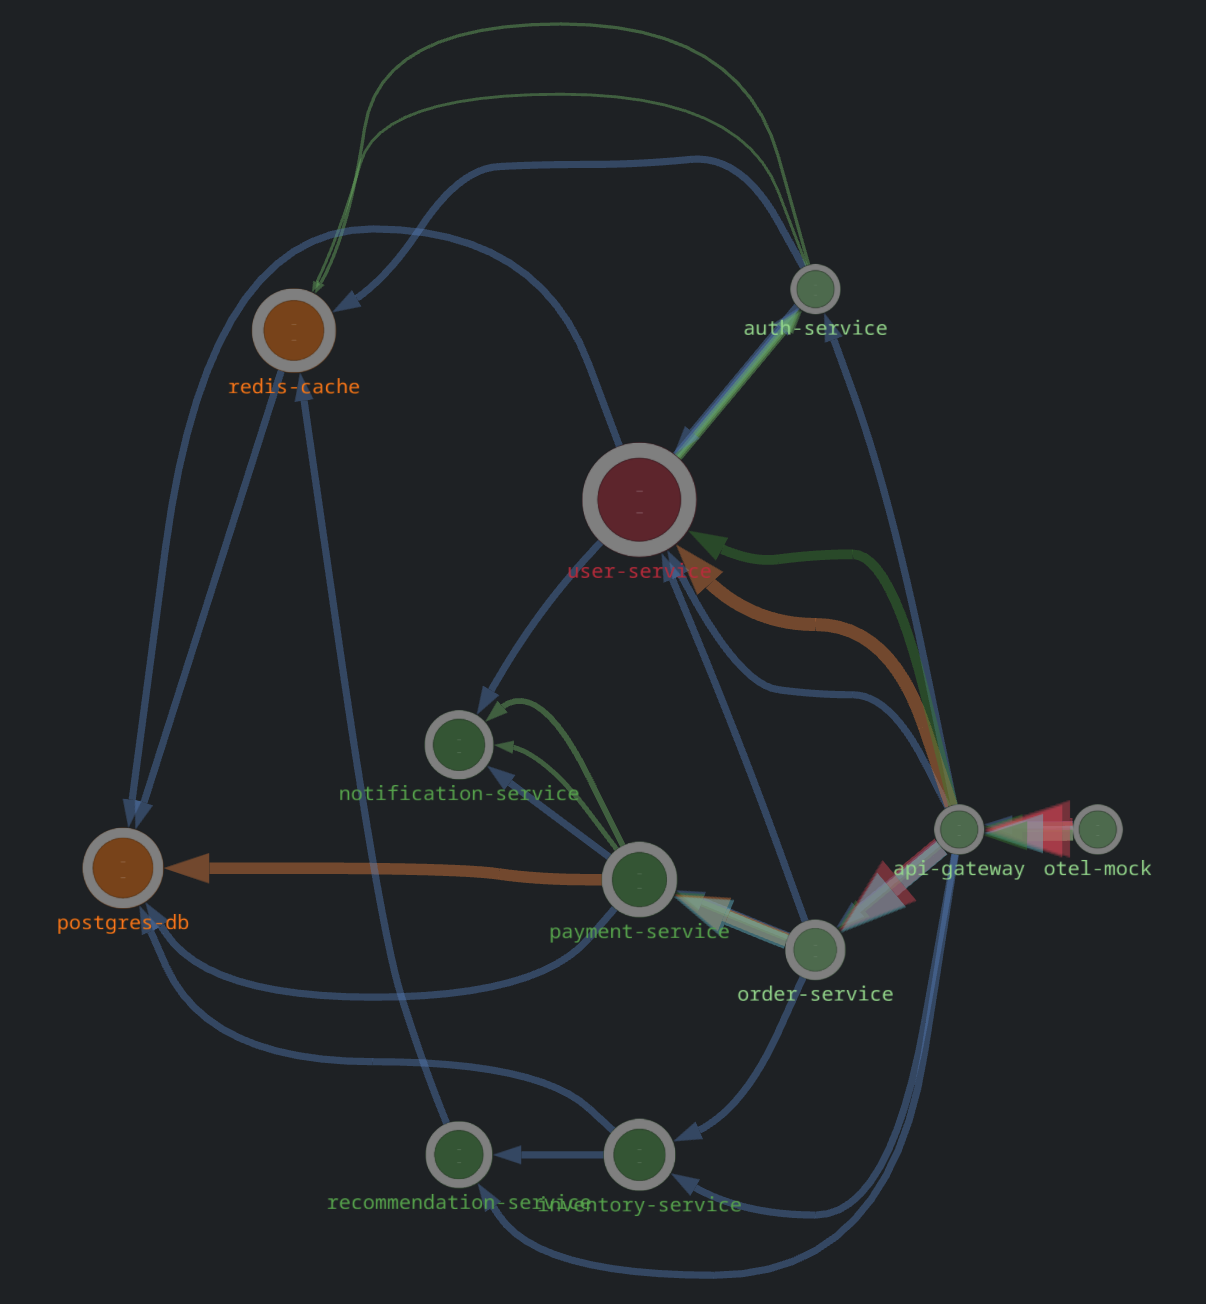
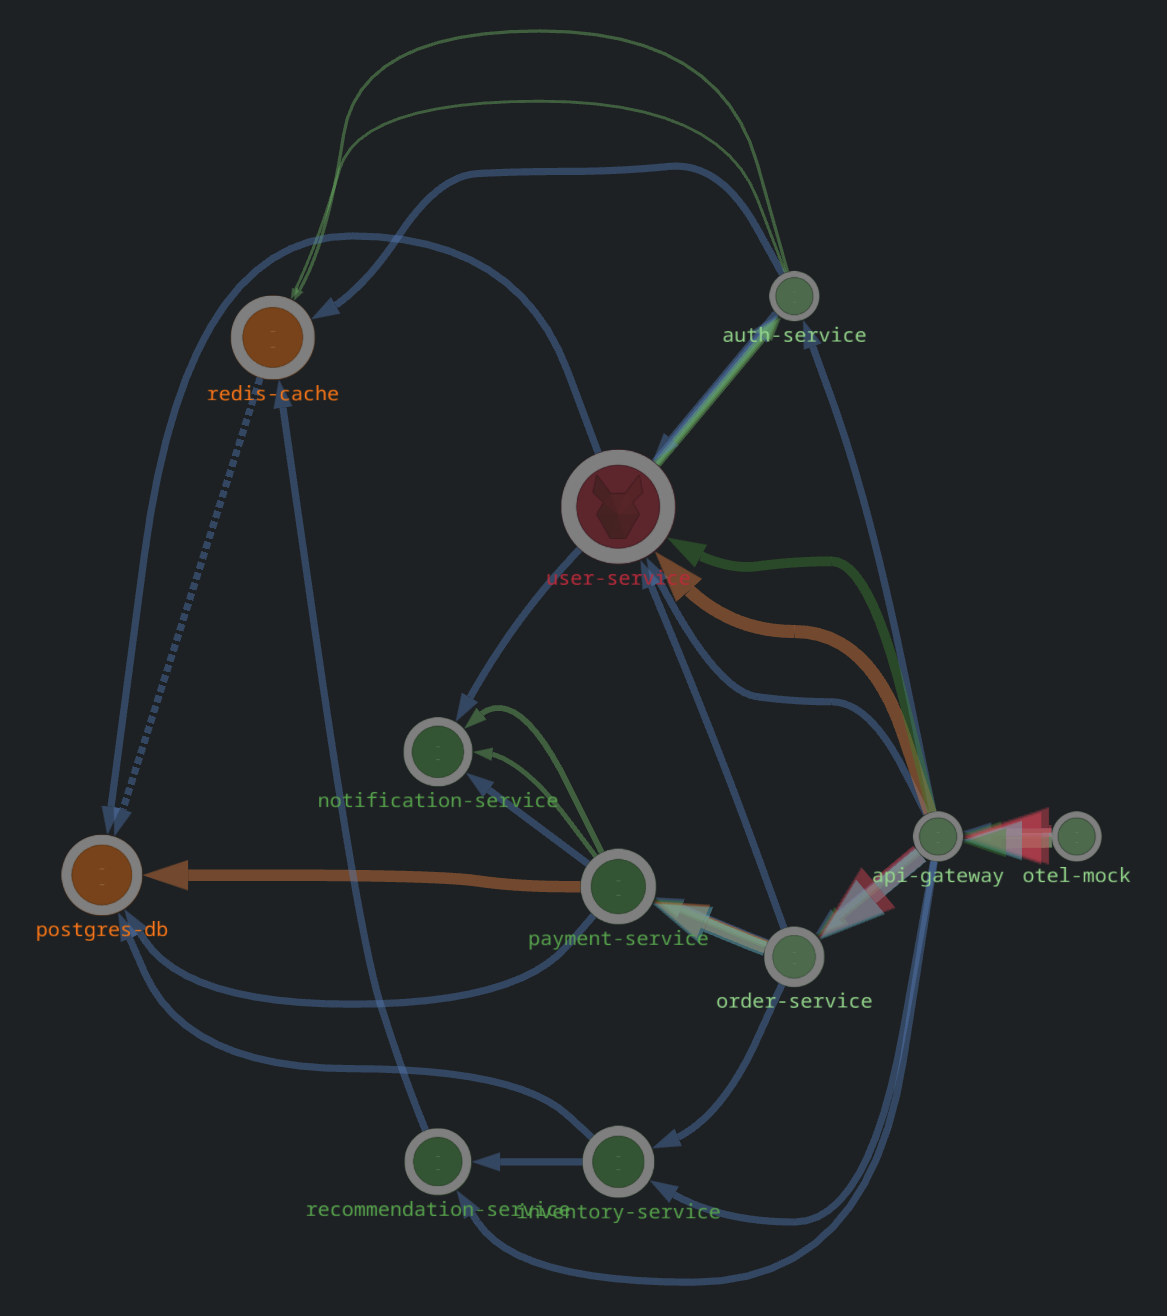
chore: upd screenshot4 . Dashed edge

diff --git a/src/utils.projected-terminals.test.ts b/src/utils.projected-terminals.test.ts
@@ -1,0 +1,64 @@
+/// <reference types="jest" />
+
+jest.mock('@mapgl/panel-core/types', () => ({}), { virtual: true });
+jest.mock('@mapgl/panel-core/types/defaults', () => ({ NS_SEPARATOR: '.' }), { virtual: true });
+jest.mock('../panel-core/src/graph/structs/graphOps', () => ({
+  getNodeData: (node: { getAttr(attr: number): unknown }) => node.getAttr(4),
+}));
+jest.mock('../panel-core/src/graph/utils/utils.graph', () => ({
+  inheritedShift: (id: string, layerShift: Record<string, [number, number]> = {}) => {
+    return id.split('.').reduce<[number, number]>(
+      ([x, y], _, i, parts) => {
+        const shift = layerShift[parts.slice(0, i + 1).join('.')];
+        return shift ? [x + shift[0], y + shift[1]] : [x, y];
+      },
+      [0, 0]
+    );
+  },
+}));
+
+import { getProjectedTerminalsGeometry } from '../panel-core/src/graph/utils/utils.projected-terminals';
+
+const node = (wasmId: number) => ({
+  getAttr: (attr: number) => (attr === 4 ? { wasmId } : undefined),
+});
+
+describe('getProjectedTerminalsGeometry', () => {
+  it('only shifts the foreign target terminal for multi-hop coordinates', () => {
+    const result = getProjectedTerminalsGeometry({
+      edge: {
+        source: node(0),
+        target: node(3),
+      },
+      panel: {
+        positions: new Float64Array([0, 0, 10, 0, 20, 0, 30, 0]),
+      },
+      layerShift: {
+        namespaceB: [100, 25],
+      },
+      srcGraph: { id: 'namespaceA' } as any,
+      tarGraph: { id: 'namespaceB' } as any,
+      subPath: ['source', 'hop-1', 'hop-2', 'target'],
+      pathsCoords: [
+        [0, 0],
+        [10, 0],
+        [20, 0],
+        [30, 0],
+      ],
+      layoutArrowTips: {
+        start: [-5, -5],
+      },
+    });
+
+    expect(result).toMatchObject({
+      subPath: ['source', 'hop-1', 'hop-2', 'target'],
+      targetTerminalShift: [100, 25],
+    });
+    expect(result?.pathsCoords).toEqual([
+      [0, 0],
+      [10, 0],
+      [20, 0],
+      [130, 25],
+    ]);
+  });
+});